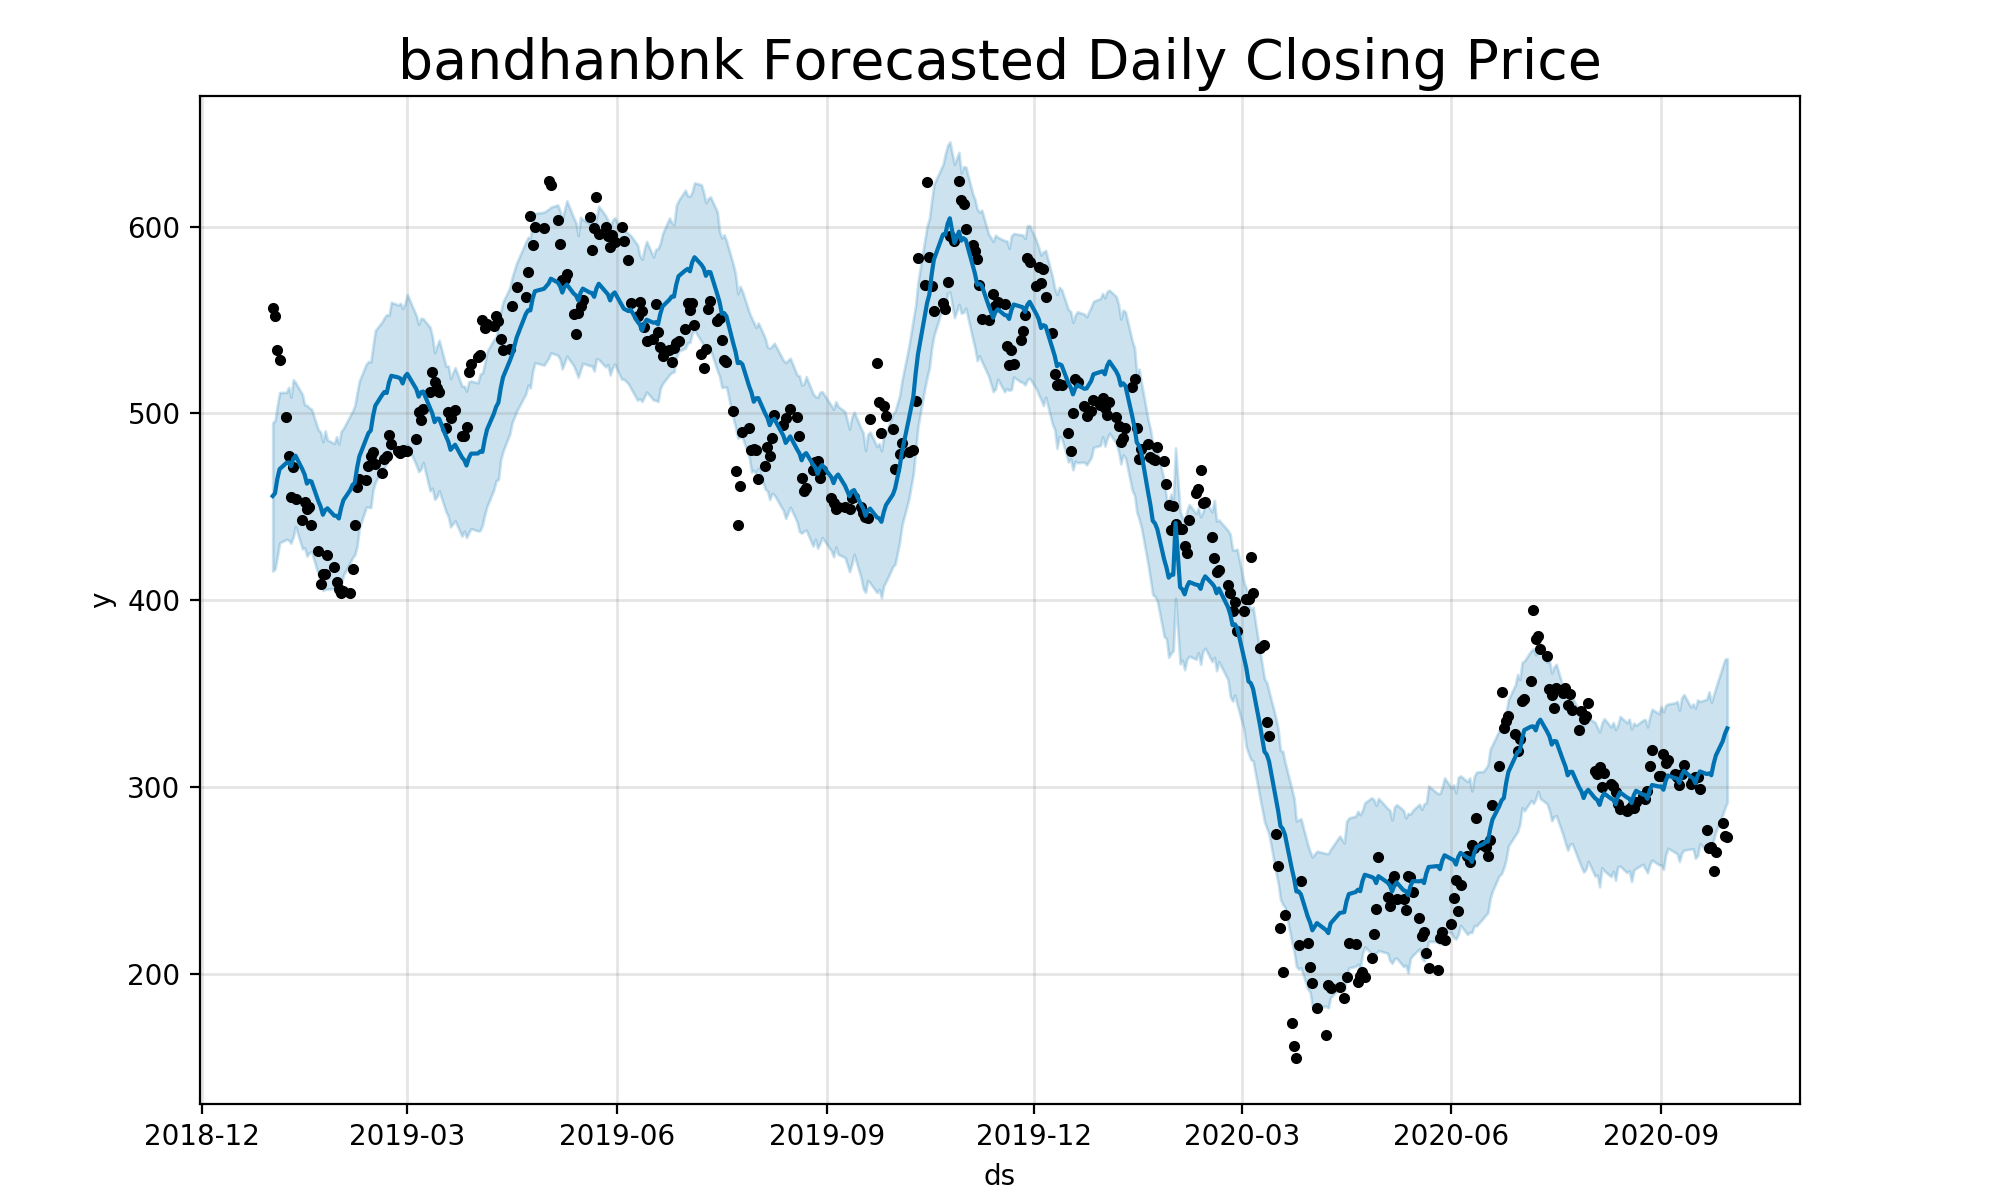
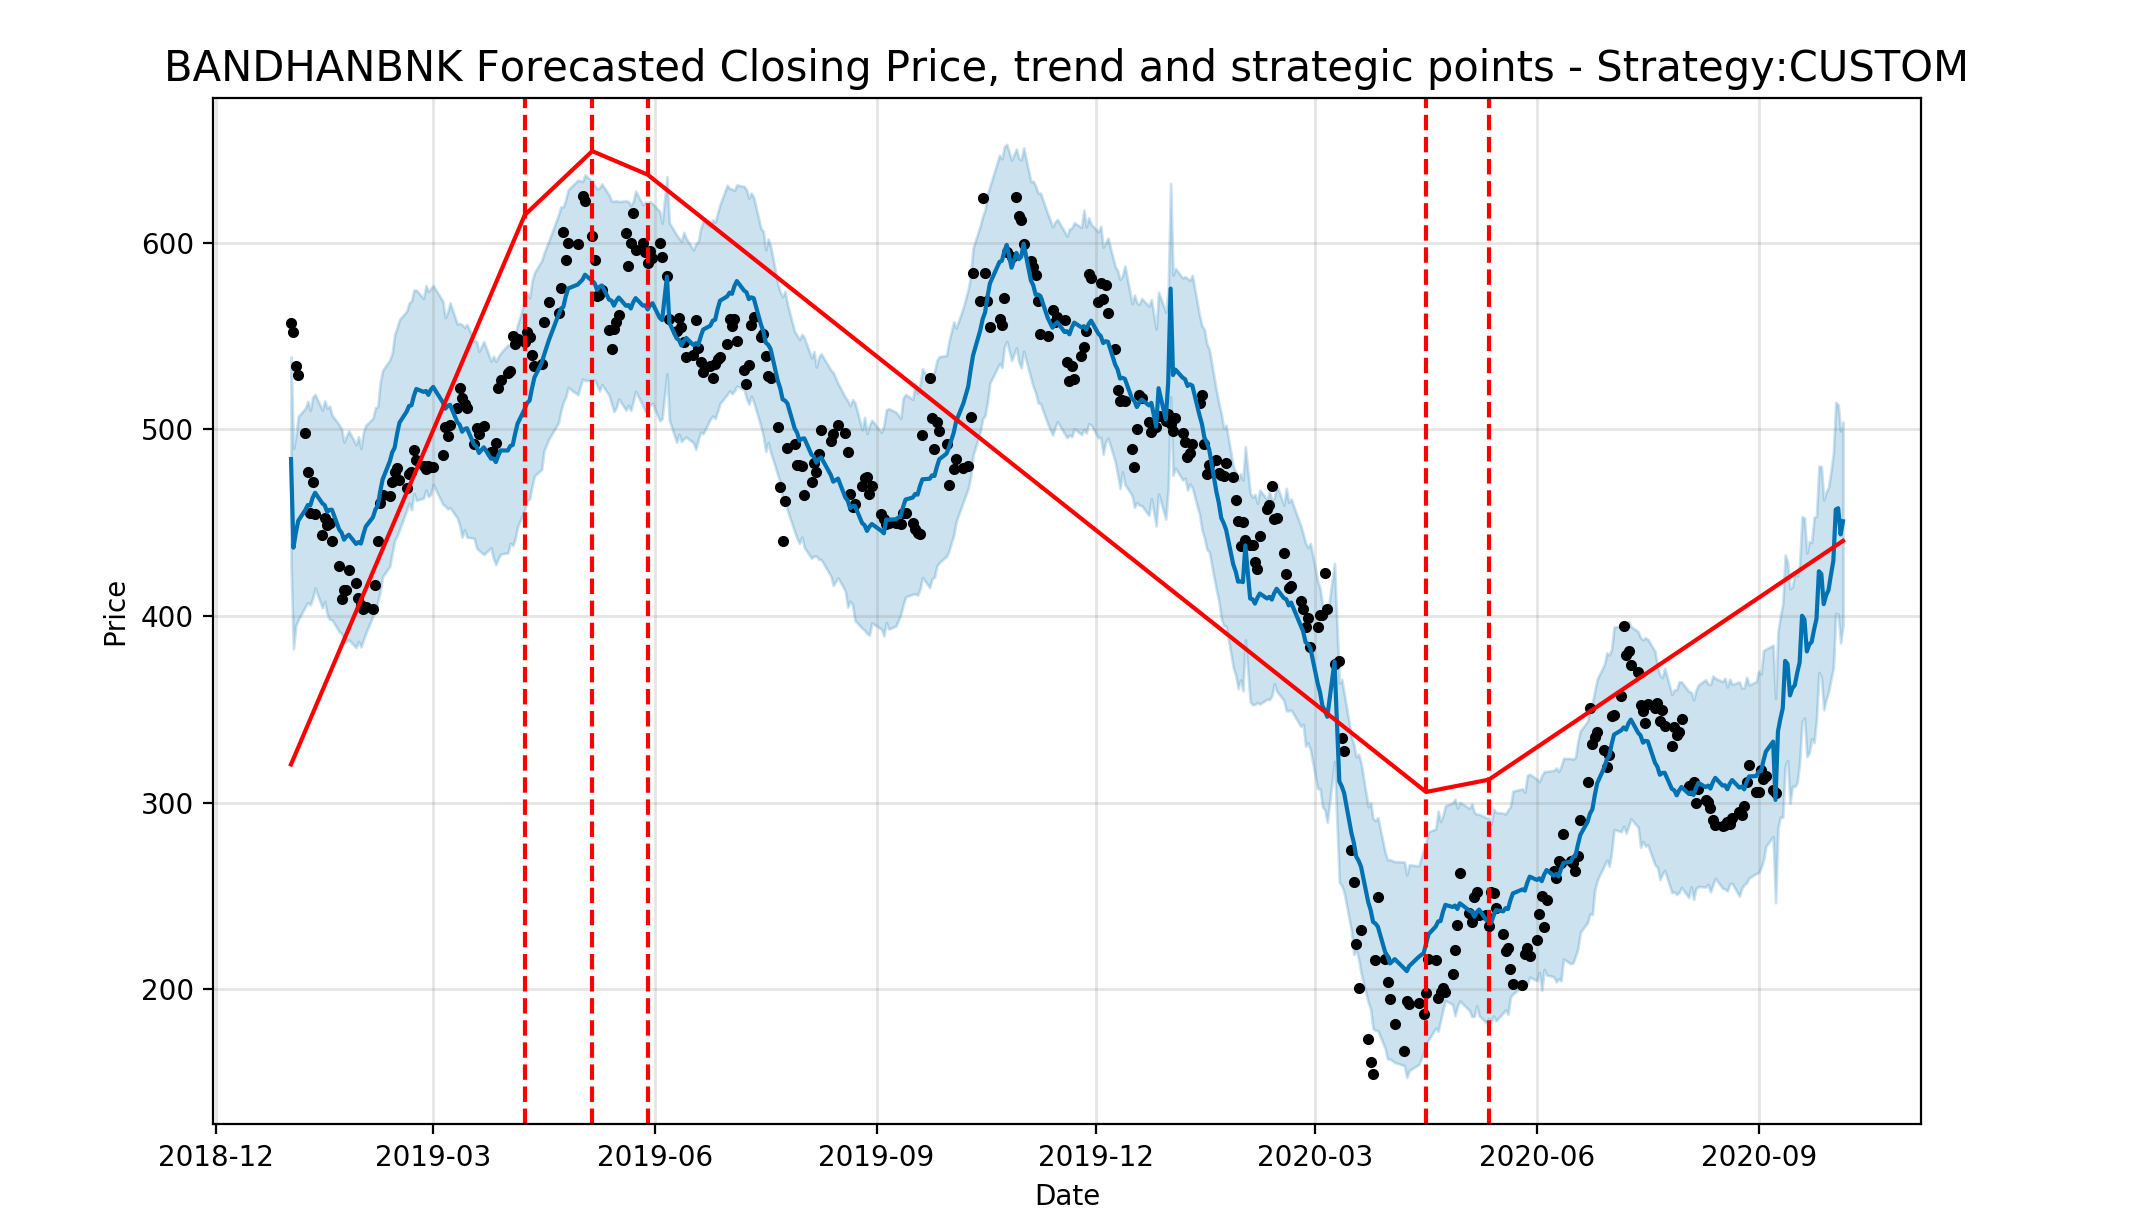
Updated for better strategy mapping

diff --git a/nseta/cli/strategycli.py b/nseta/cli/strategycli.py
@@ -61,16 +61,28 @@ STRATEGY_MAPPING = {
     "multi": multi_strategy
 }
 
-STRATEGY_MAPPING_KEYS = list(STRATEGY_MAPPING.keys())
+KEY_MAPPING = {
+    'dt': 'Date',
+    'open': 'Open',
+    'high': 'High',
+    'low': 'Low',
+    'close': 'Close',
+    'volume': 'Volume',
+}
+
+STRATEGY_MAPPING_KEYS = list(STRATEGY_MAPPING.keys()) + ['custom']
 
 @click.command(help='Measure the performance of your trading strategy')
 @click.option('--symbol', '-S',  help='Security code')
 @click.option('--start', '-s', help='Start date in yyyy-mm-dd format')
 @click.option('--end', '-e', help='End date in yyyy-mm-dd format')
-@click.option('--strategy', default='rsi', help=', '.join(STRATEGY_MAPPING_KEYS) + ". Choose one.")
+@click.option('--strategy', default='rsi', type=click.Choice(STRATEGY_MAPPING_KEYS), 
+	help=', '.join(STRATEGY_MAPPING_KEYS) + ". Choose one.")
+@click.option('--upper', '-u', default=1.5, help='Only when strategy is "custom". We buy the security when the predicted next day return is > +{upper} %')
+@click.option('--lower', '-l', default=1.5, help='Only when strategy is "custom". We sell the security when the predicted next day return is < -{lower} %')
 @click.option('--autosearch/--no-autosearch', default=False, 
 	help='--auto for allowing to automatically measure the performance of your trading strategy on multiple combinations of parameters.')
-def test_trading_strategy(symbol, start, end, autosearch, strategy):
+def test_trading_strategy(symbol, start, end, autosearch, strategy, upper, lower):
 	if not validate_inputs(start, end, symbol):
 		print_help_msg(test_trading_strategy)
 		return
@@ -82,6 +94,10 @@ def test_trading_strategy(symbol, start, end, autosearch, strategy):
 	strategy = strategy.lower()
 	if strategy in STRATEGY_MAPPING:
 		STRATEGY_MAPPING[strategy](df, autosearch)
+	elif strategy == 'custom':
+		for key in KEY_MAPPING.keys():
+			df[key] = df[KEY_MAPPING[key]]
+		backtest_custom_strategy(df, strategy, upper, lower)
 	else:
 		STRATEGY_MAPPING['rsi'](df, autosearch)
 
@@ -89,9 +105,11 @@ def test_trading_strategy(symbol, start, end, autosearch, strategy):
 @click.option('--symbol', '-S',  help='Security code')
 @click.option('--start', '-s', help='Start date in yyyy-mm-dd format')
 @click.option('--end', '-e', help='End date in yyyy-mm-dd format')
-@click.option('--upper', '-u', default=1.5, help='We buy the security when the predicted next day return is > +{upper} %')
-@click.option('--lower', '-l', default=1.5, help='We sell the security when the predicted next day return is < -{lower} %')
-def forecast_strategy(symbol, start, end, upper, lower):
+@click.option('--strategy', default='rsi', type=click.Choice(STRATEGY_MAPPING_KEYS), 
+	help=', '.join(STRATEGY_MAPPING_KEYS) + ". Choose one.")
+@click.option('--upper', '-u', default=1.5, help='Only when strategy is "custom". We buy the security when the predicted next day return is > +{upper} %')
+@click.option('--lower', '-l', default=1.5, help='Only when strategy is "custom". We sell the security when the predicted next day return is < -{lower} %')
+def forecast_strategy(symbol, start, end, strategy, upper, lower):
 	if not validate_inputs(start, end, symbol):
 		print_help_msg(forecast_strategy)
 		return
@@ -99,14 +117,10 @@ def forecast_strategy(symbol, start, end, upper, lower):
 	ed = datetime.strptime(end, "%Y-%m-%d").date()
 
 	df = get_history(symbol, sd, ed)
-	df['dt'] = df['Date']
-	df['open'] = df['Open']
-	df['high'] = df['High']
-	df['low'] = df['Low']
-	df['close'] = df['Close']
-	df['volume'] = df['Volume']
+	for key in KEY_MAPPING.keys():
+		df[key] = df[KEY_MAPPING[key]]
 	df.set_index('dt', inplace=True)
 	df.drop(EQUITY_HEADERS, axis = 1, inplace = True)
-	plt = daily_forecast(df, symbol, upper_limit=float(upper), lower_limit=float(lower))
+	plt, result = daily_forecast(df, symbol, strategy, upper_limit=float(upper), lower_limit=float(lower), periods=28)
 	if plt is not None:
 		plt.show()

diff --git a/nseta/strategy/strategy.py b/nseta/strategy/strategy.py
@@ -1,5 +1,7 @@
 from fastquant import backtest
 from fbprophet import Prophet
+from fbprophet.plot import add_changepoints_to_plot
+
 from matplotlib import pyplot as plt
 
 import click
@@ -35,6 +37,10 @@ def backtest_multi_strategy(df, key_variable="smac", fast_period=10, slow_period
 	# print(result[[key_variable +'.fast_period', key_variable+'.slow_period', 'rsi.rsi_lower', 'rsi.rsi_upper', 'init_cash', 'final_value', 'pnl']].head())
 	return result
 
+# def backtest_custom_strategy(df, symbol, strategy, upper_limit, lower_limit):
+# 	plt, result = daily_forecast(df, symbol, strategy, upper_limit, lower_limit, 0)
+# 	return result
+
 '''
 This powerful strategy allows to backtest our own trading strategies 
 using any type of model after the forecast!
@@ -50,31 +56,56 @@ We are going to use the custom strategy to backtest a custom indicator based
 on in-sample time series forecasts. The forecasts are generated using 
 Facebook's Prophet package.
 '''
-def daily_forecast(df, symbol, upper_limit=1.5, lower_limit=1.5):
+def daily_forecast(df, symbol, strategy, upper_limit=1.5, lower_limit=1.5, periods=0):
 	# Fit model on closing prices
 	ts = df.reset_index()[["dt", "close"]]
 	ts.columns = ['ds', 'y']
 	if not ts['y'].count() >= 2:
 		click.secho("Dataframe has less than 2 non-NaN rows. Cannot fit the model.", fg='red', nl=True)
 		return
-	m = Prophet(daily_seasonality=True, yearly_seasonality=True).fit(ts)
-	forecast = m.make_future_dataframe(periods=0, freq='D')
+	# m = Prophet(daily_seasonality=True, yearly_seasonality=True).fit(ts)
+	m = Prophet(growth="linear",
+            seasonality_mode='additive',
+            daily_seasonality=False,
+            weekly_seasonality=True,
+            yearly_seasonality=True,
+            interval_width=0.95, #uncertainty
+            holidays=None,
+            n_changepoints=20,
+           ) 
+	m.add_country_holidays(country_name='IN')
+	m.fit(ts)
+
+	future = m.make_future_dataframe(periods=periods, freq='D')
+	future.tail()
 
 	# Predict and plot
-	pred = m.predict(forecast)
-	fig1 = m.plot(pred)
-	plt.subplot()
-	plt.title(symbol+' Forecasted Daily Closing Price', fontsize=20)
-	plt.subplots_adjust(top=0.92, bottom=0.08, left=0.10, right=0.90, hspace=0.25,
-	                    wspace=0.5)
+	forecast = m.predict(future)
+	forecast[['ds', 'yhat', 'yhat_lower', 'yhat_upper']].tail()
+
+	if periods > 0:
+		fig1 = m.plot(forecast, uncertainty=True)
+		# fig2 = m.plot_components(forecast)
+		a = add_changepoints_to_plot(fig1.gca(), m, forecast)
+		# fig1.axes[0].set_xlim(datestring_to_datetime("2020-02-01"),
+		#                       datestring_to_datetime("2020-04-30")
+		#                      )
+		fig1.axes[0].set_xlabel('Date')
+		fig1.axes[0].set_ylabel('Price')
+		plt.subplot()
+		plt.title(symbol.upper()+' Forecasted Closing Price, trend and strategic points - Strategy:' + strategy.upper(), fontsize=15)
+		plt.subplots_adjust(top=0.92, bottom=0.08, left=0.10, right=0.90, hspace=0.25,
+		                    wspace=0.5)
 
 	# Convert predictions to expected 1 day returns
-	expected_1day_return = pred.set_index("ds").yhat.pct_change().shift(-1).multiply(100)
+	expected_1day_return = forecast.set_index("ds").yhat.pct_change().shift(-1).multiply(100)
 
 	# Backtest the predictions, given that we buy the given symbol when the predicted 
 	# next day return is > +1.5%, and sell when it's < -1.5%.
-	df["custom"] = expected_1day_return.multiply(-1)
-	
-	result = backtest("custom", df.dropna(),upper_limit=upper_limit, lower_limit=-lower_limit)
+	df[strategy] = expected_1day_return.multiply(-1)
+	if strategy == 'custom':
+		result = backtest(strategy, df.dropna(),upper_limit=upper_limit, lower_limit=-lower_limit)
+	else:
+		result = backtest(strategy, df.dropna())
 	print(result[['init_cash', 'final_value', 'pnl']].head())
-	return plt
+	return plt, result
